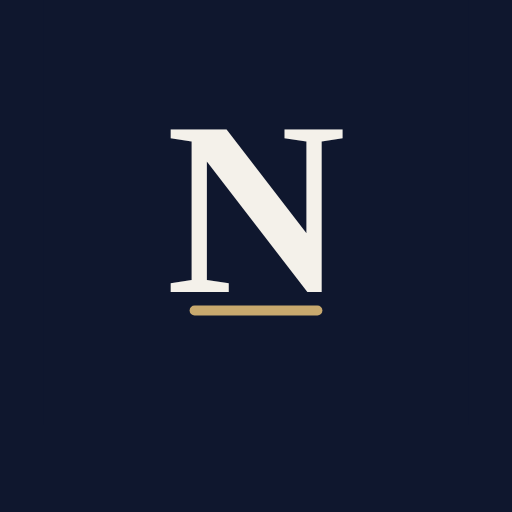
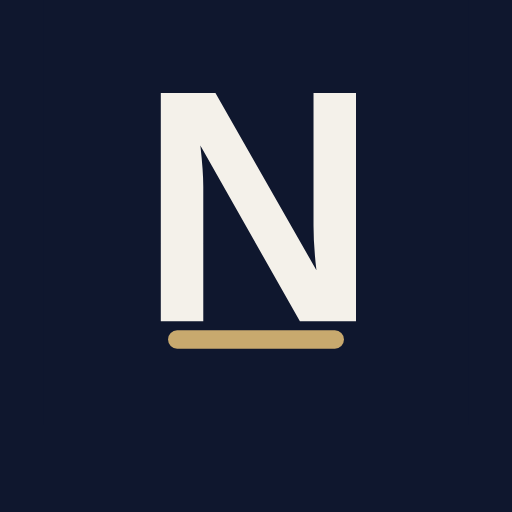
fix(erp): ícono de la app más legible en iPhone (N grande y en negrita)
- Rehecho el ícono: "N" sans-serif bold que llena el mosaico (antes era
  serif chica con mucho fondo, se veía borrosa/vacía en el home de iOS).
- Regenerados apple-touch-icon 180 + icon 192/512 (azul marino a sangre)
  y actualizado nord-icon.svg del login para que sea consistente.
- SW cache v3 para tomar los íconos nuevos.

Claude-Session: https://claude.ai/code/session_01UDPmFAzTzGpwyBVWc4RDyT

diff --git a/sw-erp.js b/sw-erp.js
@@ -1,6 +1,6 @@
 // Service Worker de la NORD ERP (PWA de Flor).
 // App-shell cache para que abra sin conexion; la API siempre va a la red.
-const CACHE = "nord-erp-v2";
+const CACHE = "nord-erp-v3";
 const SHELL = [
   "/erp",
   "/erp.html",
